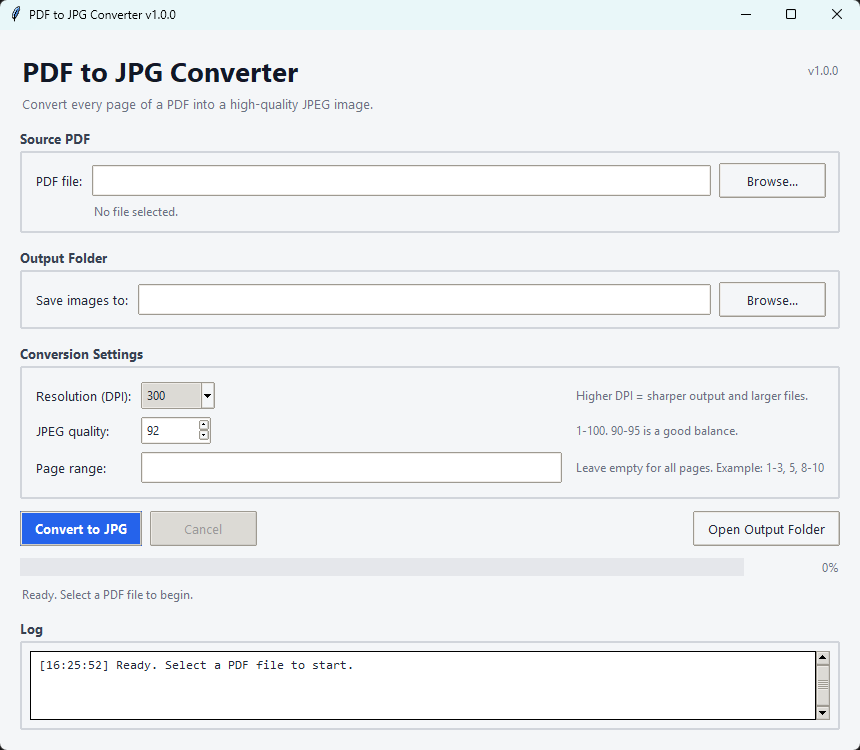
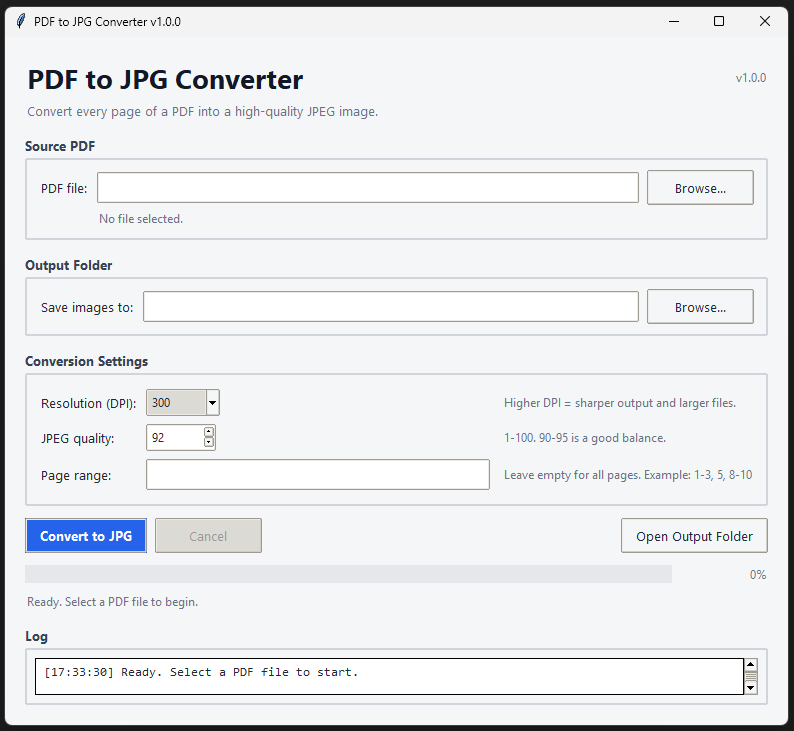
Finalize .gitignore and add download link for latest release

Changed region(s): [[0.0, 0.0, 1.0, 1.0]]

diff --git a/README.md b/README.md
@@ -16,6 +16,12 @@
 
 ---
 
+## ⬇ Download
+
+**[Download the latest release](https://github.com/fateh-io/pdf-to-jpg/releases/latest)** — Windows `.exe`, no Python required.
+
+---
+
 ## Features
 
 - **Convert all pages or a custom range** — e.g. `1-3, 5, 8-10`
